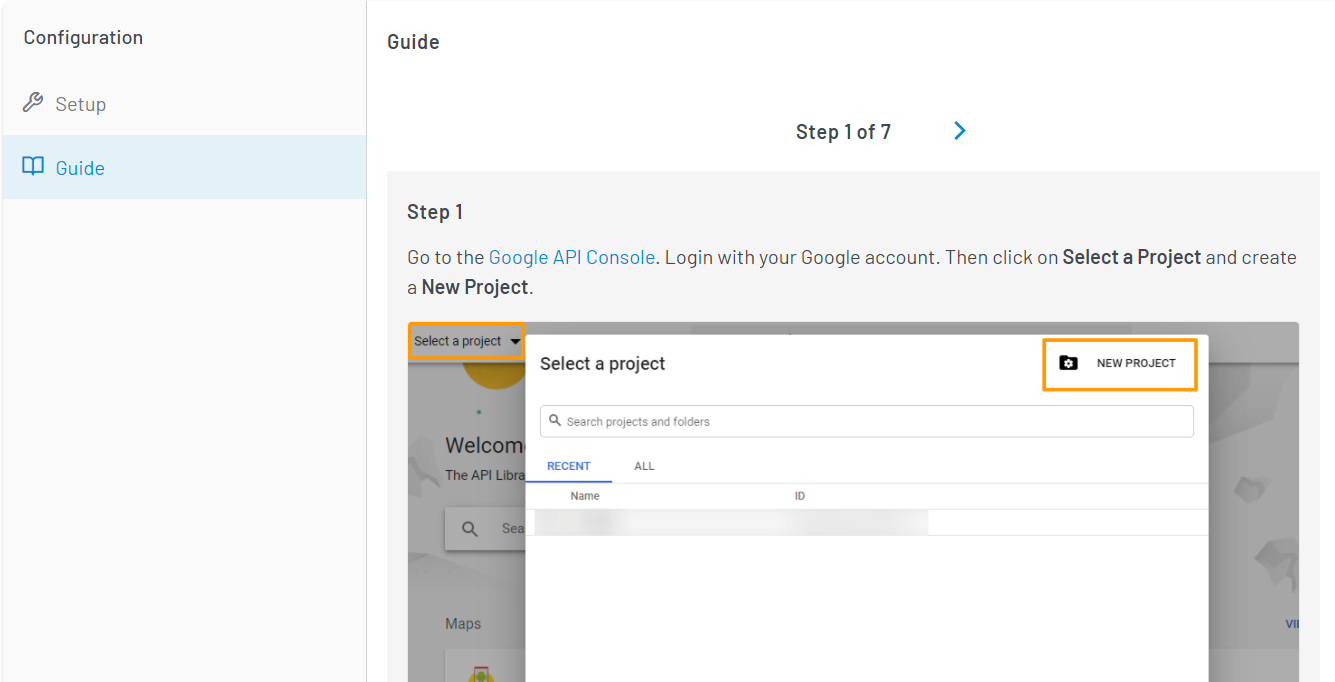
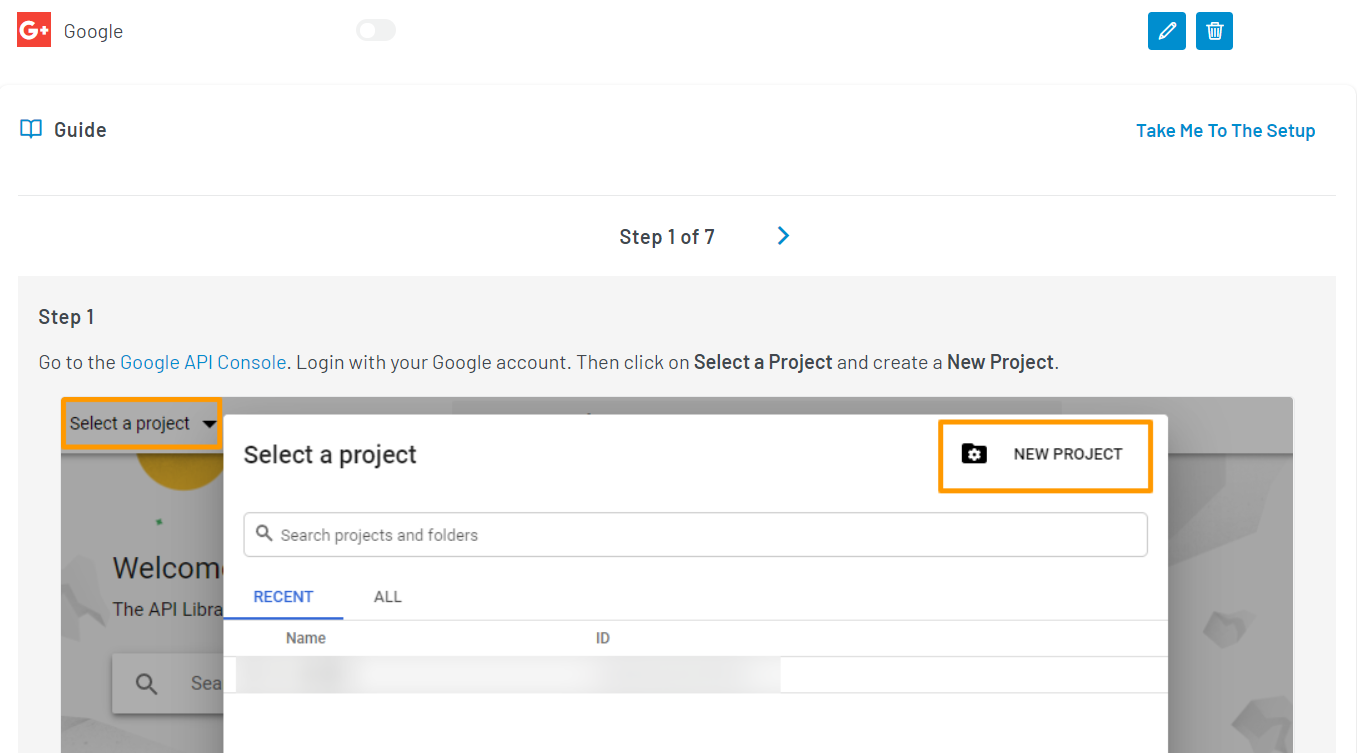
Update content/guide/social-login/index.md, content/guide/social-login/images/configsteps.png files

diff --git a/content/guide/social-login/index.md b/content/guide/social-login/index.md
@@ -2,9 +2,9 @@
 
 
 You can implement Social Login for a quick and convenient approach for consumer registration and login. This guide explains how to add and configure the desired Social Login providers on your application using LoginRadius Dashboard.
-Watch this video for the step by step information or refer to the section below for the text-based guide.
 
-Watch the video to get started, or refer to the section below for the text-based guide.
+Watch this video for step by step information, or refer to the section below for the text-based guide.
+
 
 <figure class="video_container">
 <iframe width="560" height="315" src="https://www.youtube.com/embed/gd5Ig1S4P_U" frameborder="0" allow="accelerometer; autoplay; clipboard-write; encrypted-media; gyroscope; picture-in-picture" allowfullscreen></iframe></figure>
@@ -13,61 +13,71 @@ Watch the video to get started, or refer to the section below for the text-based
 
 ##Configuration
 
-###Step 1 : Login Method Section
-Login to your LoginRadius Dashboard account, from the left navigation panel, click **Configuration** and then navigate to the Add a **Login Method** section.
+###Step 1: Choose Login Method 
 
-  ![alt_text](./images/addaloginmethod.png "image_tooltip")
+1. Login to your LoginRadius Dashboard account, from the left navigation panel, click **Configuration** and then navigate to the ** Add a Login Method** section.
 
-
-###Step 2 : Add a Login Method
-Click the down arrow and the **Add a Login Method** section will expand.
-
-###Step 3 : Select Social Login Method
-Click the **Add Method** drop-down and select your desired social provider from the available providers’ list as displayed in the following screen:
-
-  ![alt_text](./images/selectproviders.png "image_tooltip")
+   ![alt_text](./images/addaloginmethod.png "image_tooltip")
 
 
-It will open the steps section to set up the respective social provider app. 
-The list of supported social providers varies based on your plan. Check out supported social providers for your plan at the bottom of the document.
+2. Click the down arrow, and the **Add a Login Method** section will expand.
 
-###Step 4: Configure Social Login Method
-Follow the step by step guide displayed on the LoginRadius Dashboard screen for configuration. 
-For example, the following screen displays the configuration steps for configuring Google as social login option:
+3. Click the **Add Method** drop-down and select your desired social provider from the available providers’ list as displayed in the following screen:
 
-  ![alt_text](./images/configsteps.png "image_tooltip")
+   ![alt_text](./images/selectproviders.png "image_tooltip")
 
-Perform each step and click the Next button (given in top right of the above screen) to go to the next step.
+
+   It will open the steps section to set up the respective social provider app. 
+
+   > The list of [supported social providers](#supported-social-providers) varies based on your plan. 
+
+###Step 2: Configure Social Login 
+
+1. Follow the step by step guide displayed on the LoginRadius Dashboard screen for configuration. For example, the following screen displays the configuration steps for configuring Google as social login option:
+
+   ![alt_text](./images/configsteps.png "image_tooltip")
+
+2. Perform each step and click the **Next** button to go to the next step.
 The steps for configuring each social provider will be different and displayed after selecting the respective social provider.
 
-  ![alt_text](./images/configuresocial.png "image_tooltip")
+   ![alt_text](./images/configuresocial.png "image_tooltip")
 
 
-Upon completing the configuration steps of the selected Social ID Provider, you will get the credentials. Enter the obtained credentials in the **Configure App** section (given on the left of the above screen) and click the **Save** button.
+3. Upon completing the selected Social ID Provider’s configuration steps, you will get the credentials, you will get the credentails. Save these credentials and then click the **Take Me To Setup** from the guide’s right corner.
 
-  ![alt_text](./images/configuresave.png "image_tooltip")
+   ![alt_text](./images/takemetosetup.png "image_tooltip")
 
-###Step 5: Whitelist Domain
 
-Now we have to whitelist our domain to allow api access.
+4. Enter the obtained credentials in the **Configure App** section and click the **Save** button.
 
-To whitelist your domain, in your LoginRadius Dashboard, navigate to **[Configuration > Domain Whitelisting](https://dashboard.loginradius.com/configuration)** and add your domain name:
+   ![alt_text](./images/configuresave.png "image_tooltip")
 
-  ![alt_text](./images/whitelistingdomain.png "image_tooltip")
+###Step 3: Whitelist Domain
+
+Whitelist your application domain to allow the LoginRadius API access.
+
+In your LoginRadius Dashboard, navigate to **[Configuration > Domain Whitelisting](https://dashboard.loginradius.com/configuration)** and add your domain name:
+
+![alt_text](./images/whitelistingdomain.png "image_tooltip")
+
 > Local domains (http://localhost and http://127.0.0.1) are whitelisted by default.
 
 
-###Step 6: Check Auth Page (IDX)
+###Step 4: Check Auth Page (IDX)
+
 Open your **Auth Page (IDX)** (https://</your-app-name/>.hub.loginradius.com/auth.aspx ) and it will display the social icon for the configured social provider:
-  ![alt_text](./images/idxsocial.png "image_tooltip")
 
-###Supported Social Providers
+![alt_text](./images/idxsocial.png "image_tooltip")
 
-The table below lists the social providers that LoginRadius supports for the Free, Developer, and Developer PremiumPlan.
+> The Social Login is now configured and functioning on your Auth Page (IDX). If you are not using Auth Page (IDX) for authentication, use LoginRadius SDK or APIs to utilize the configured Social Login in your application.
+
+##Supported Social Providers
+
+The following are the social providers that LoginRadius supports for the Free, Developer, and Developer Premium plans.
 
 
 |PLAN |	FACEBOOK |	GOOGLE |	TWITTER |	LINKEDIN |	GITHUB
 :|:---:|:---:|:---:|:---:|:---:|:---:|:
 |Free |	Yes |	Yes |	Yes |	No | No
 |Developer	| Yes	| Yes	| Yes	| Yes	| Yes
-|Developer Premium	| Supportes| 20+ | Social| ID | Providers| 			
+|Developer Premium	| Supports| 20+ | Social| ID | Providers| 			
